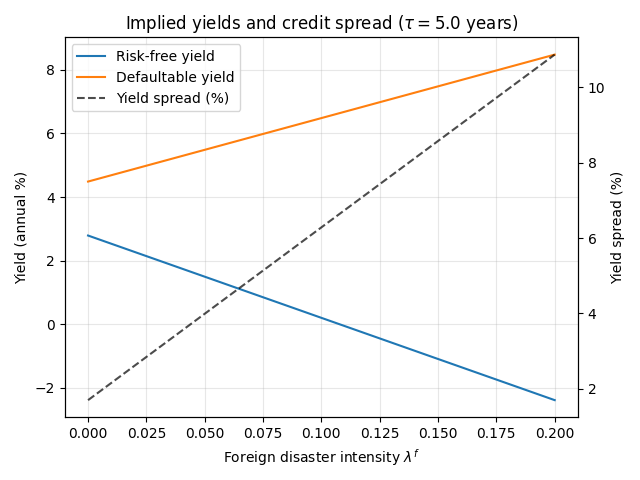
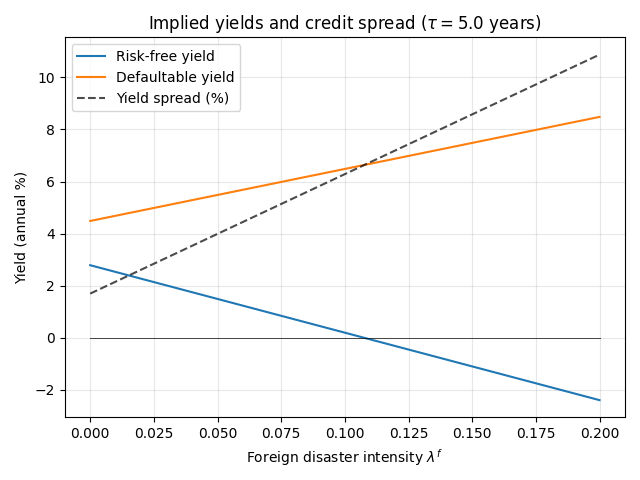
minor fix

diff --git a/draft2/bondpricesplot.py b/draft2/bondpricesplot.py
@@ -162,15 +162,9 @@ def plot_yields_and_spread_vs_lambda_f(params: DisasterModelParams,
     ax1.set_ylabel(r"Yield (annual %)")
     ax1.set_title(rf"Implied yields and credit spread ($\tau={tau}$ years)")
     ax1.grid(True, alpha=0.3)
-
-    ax2 = ax1.twinx()
-    ax2.plot(lam_f_vals, spread, label=r"Yield spread (%)", color="black", alpha=0.7, linestyle="--")
-    ax2.set_ylabel(r"Yield spread (%)")
-
-    
-    lines_1, labels_1 = ax1.get_legend_handles_labels()
-    lines_2, labels_2 = ax2.get_legend_handles_labels()
-    ax1.legend(lines_1 + lines_2, labels_1 + labels_2, loc="upper left")
+    ax1.plot(lam_f_vals, spread, label=r"Yield spread (%)", color="black", alpha=0.7, linestyle="--")
+    ax1.plot(lam_f_vals, np.zeros(len(lam_f_vals)), color="black", alpha=0.7, linewidth=0.7)
+    ax1.legend(loc="upper left")
 
     fig.tight_layout()
     plt.savefig("/Users/aryaman/honors/draft2/figures/yields_and_spread_vs_lambda_f.png")
@@ -234,10 +228,10 @@ if __name__ == "__main__":
     params = DisasterModelParams()
     tau = 5.0  
 
+    plot_yields_and_spread_vs_lambda_f(params, tau=tau)
     plot_rf_vs_defaultable(params, tau=tau)
     # plot_defaultable_heatmap(params, tau=tau)
     plot_gamma_sensitivity(params, tau=tau)
-    plot_yields_and_spread_vs_lambda_f(params, tau=tau)
     plot_short_rate_vs_lambda_f(params)
 
     plot_param_sensitivity_defaultable(params, tau, "beta", [0.01, 0.02, 0.03])
